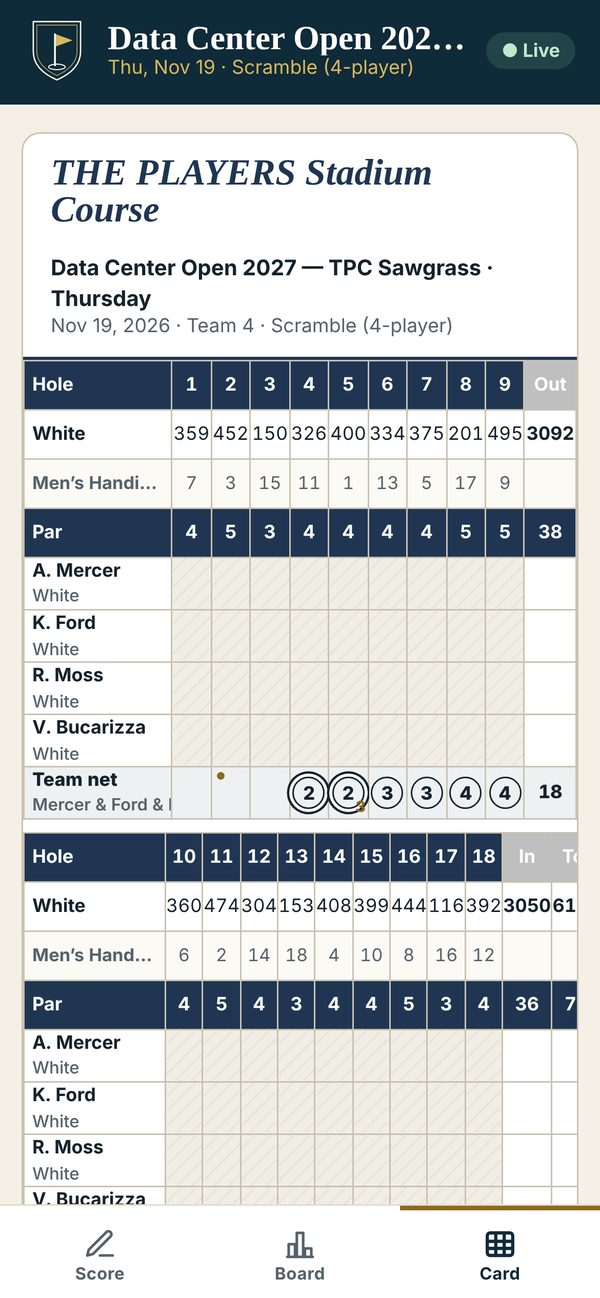
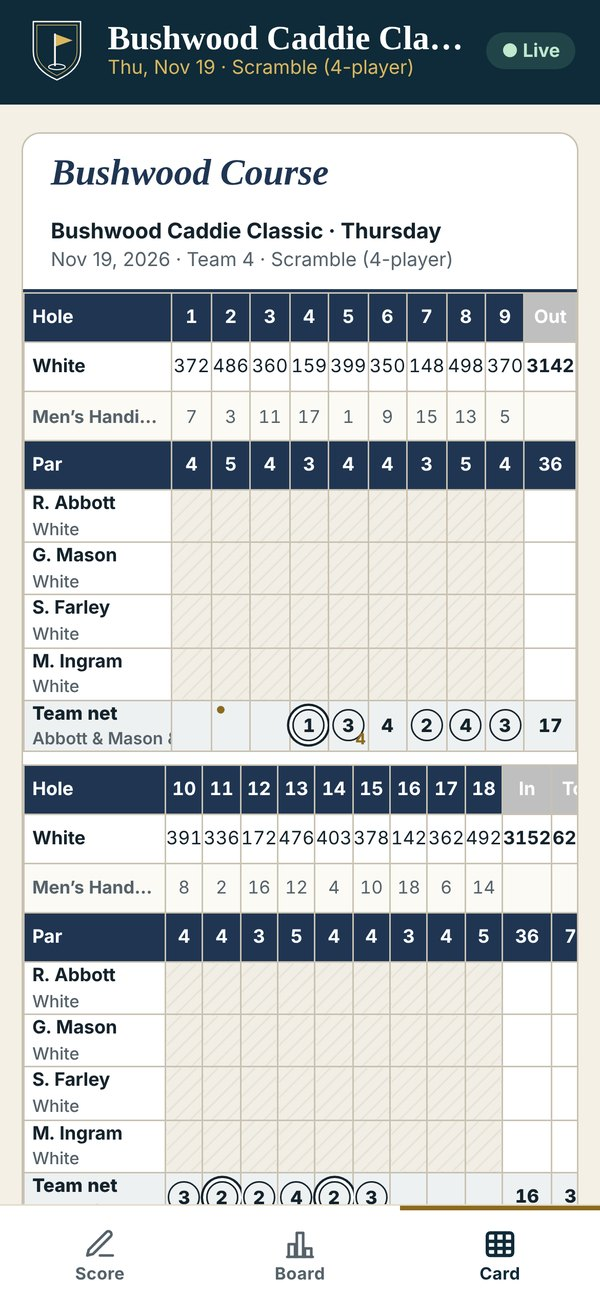
Website: replace the Data Center Open screenshots with a fictional Bushwood Caddie Classic
No real club or client appears on the marketing site any more: the tournament,
registration, scoring, board, GameCast, card, results and nonprofit screens are
re-staged as a charity scramble for a made-up scholarship fund at Bushwood, with
invented sponsors and generic names. tools/site/stage_demo.py reproduces them.

Claude-Session: https://claude.ai/code/session_01DwTJqCtbvtRc53WGXWBa26

diff --git a/tools/site/stage_demo.py b/tools/site/stage_demo.py
@@ -1,0 +1,104 @@
+"""Stage a fictional charity scramble (the Bushwood Caddie Classic) on the fake and capture every screen for the website — no real club or client appears."""
+import asyncio,json,random,datetime,subprocess,os,sys
+sys.path.insert(0,os.path.join(os.path.dirname(os.path.abspath(__file__)),'..','..','tests'))
+from playwright.async_api import async_playwright
+from _harness import FakeDB,cloud,page
+OUT=os.environ.get('OUT','/tmp/site-shots/'); os.makedirs(OUT,exist_ok=True)
+random.seed(11)
+FIRST='James Michael Robert David William Richard Joseph Thomas Daniel Matthew Anthony Mark Steven Paul Andrew Kevin Brian George Timothy Ronald Jason Ryan Jacob Gary Nicholas Eric Jonathan Stephen Larry Justin Scott Brandon Benjamin Samuel Gregory Alexander Patrick Jack Dennis Jerry Tyler Aaron Jose Adam Nathan Henry Zachary Douglas Peter Kyle Noah Ethan Jeremy Christian Walter Keith Austin Roger Terry Sean Gerald Carl Harold Jordan Jesse Bryan Lawrence Arthur Gabriel Bruce Logan Vicki Sue Liz Dana'.split()
+LAST='Abbott Archer Bannister Beck Bishop Blake Booth Bowen Brennan Briggs Caldwell Carver Chambers Chandler Clarke Conway Crane Dalton Dawson Dixon Donnelly Doyle Drake Ellis Emerson Farley Fletcher Foster Gallagher Garrett Gibson Granger Hanley Harmon Hayes Hendricks Holland Hooper Hughes Ingram Jennings Keane Keller Kirby Lambert Lennox Lowell Marsh Mason Maxwell Mercer Monroe Nolan Norris Osborne Parker Pierce Prescott Quigley Randall Reeve Rhodes Sawyer Sheridan Sinclair Sutton Thatcher Tierney Underwood Vaughn Walsh Whitfield Winslow Yates'.split()
+COS=['Czervik Construction','Smails Holdings','Webb Industries','Noonan & Sons','Spaulding Capital','Gopher Pest Control','Lakeside Lumber','Harbor Point Bank','Fairway Insurance','Greenside Landscaping','Bluff Creek Realty','Northgate Title','Caddyshack Outfitters','Pinehurst Dental','Linksview Motors','Riverbend Brewing','Oakmont Orthopedics','Clubhouse Catering','Meadowlark Foods','Summit Roofing','Birdie Bakery','Shoreline Marine','Highland Printing','Eastgate Logistics','Sandtrap Software','Parkside Pediatrics','Ridgeway Electric','Timberline Homes','Quail Run Vineyards','Fox Hollow Farms']
+TIERS=[('Title Sponsor',25000,4),('Presenting Sponsor',15000,4),('Eagle Sponsor',10000,4),('Birdie Sponsor',7500,4),('Par Sponsor',5000,4),('Foursome Sponsor',2500,4),('Beverage Cart Sponsor',2000,0),('Hole-in-One Sponsor',1500,0)]
+PAR=[4,5,4,3,4,4,3,5,4,4,4,3,5,4,4,3,4,5]; HCP=[7,3,11,17,1,9,15,13,5,8,2,16,12,4,10,18,6,14]
+Y=[412,538,398,176,441,387,164,551,409,433,372,191,527,446,418,158,401,544]
+def course():
+    return {'id':'bushwood','tenant':None,'name':'Bushwood Course','club':'Bushwood Country Club','city':'Bushwood','state':'IL','country':'US','holes':18,'status':'live','verified':True,'source':'scorecard','notes':None,'geo':None,
+      'data':{'par':{'M':PAR,'W':PAR},'hcp':{'M':HCP,'W':HCP},'tees':[{'name':'Black','rating':{'M':{'cr':74.3,'slope':139}},'yards':Y},{'name':'Blue','rating':{'M':{'cr':72.0,'slope':133}},'yards':[int(y*0.955) for y in Y]},{'name':'White','rating':{'M':{'cr':69.9,'slope':128},'W':{'cr':75.6,'slope':137}},'yards':[int(y*0.905) for y in Y]}]}}
+def people():
+    out=[]; used=set()
+    for i in range(72):
+        while True:
+            f,l=random.choice(FIRST),random.choice(LAST)
+            if (f,l) not in used: used.add((f,l)); break
+        out.append({'id':'m%02d'%i,'first':f,'last':l,'email':f.lower()+'@'+random.choice(COS).lower().replace(' ','')+'.com','status':'Active','hcp':str(round(random.uniform(2,22),1)),'city':random.choice(['Bushwood','Lakeview','Elmhurst','Glen Ellyn','Naperville','Oak Park','Evanston','Wheaton'])})
+    return out
+async def main():
+    fdb=FakeDB()
+    fdb.seed_tenant('caddies','Bushwood Caddie Scholarship Fund',modules={'golf':True,'pos':True,'events':True},plan='golf',kind='nonprofit')
+    fdb._rows('tenants')[-1]['courses']=['bushwood']; fdb._rows('tenants')[-1]['short']='Caddie Fund'
+    fdb._rows('courses').append(course())
+    ppl=people()
+    fdb.seed('mga_hub','club',{'v':2,'id':'club','kind':'club','name':'Bushwood Caddie Scholarship Fund','short':'Caddie Fund','members':ppl,'orgs':[],'activeSeason':'2026','seasons':{'2026':{}},'tournaments':[],'_rev':2,'_w':'x','_at':1},tenant='caddies')
+    fdb.seed_login('ops@caddies.test','caddies','staff',name='Ops'); fdb.me='u-ops@caddies.test'; fdb.admin=False; fdb.user_tenants=['caddies']
+    today=datetime.date.today().isoformat()
+    async with async_playwright() as p:
+        b=await p.chromium.launch()
+        H=await b.new_context(viewport={'width':1440,'height':900},device_scale_factor=2); await cloud(H,fdb)
+        hub=await H.new_page(); herr=[]; hub.on('pageerror',lambda e:herr.append(str(e)))
+        await hub.goto(page('index.html')+'?org=club&tenant=caddies.flagstickhub.com'); await hub.wait_for_function("()=>cloudReady&&!!db",timeout=20000); await hub.wait_for_timeout(600)
+        info=await hub.evaluate("""async(a)=>{ const [today,TIERS,COS]=a;
+          const t=newTournament({season:today.slice(0,4),name:'Bushwood Caddie Classic',days:1,startDate:today,venue:'Bushwood Country Club',teamSize:4,entryFee:0,plannedPlayers:60});
+          t.course='bushwood'; t.features=Object.assign({},NONPROFIT_FEATURES); t.status='Open for signups'; t.placesPaid=3; t.payoutNote='Trophies and donated gifts for the top three teams; closest-to-the-pin on 16 and long drive on 13.'; t.rules='Four-player scramble, one ball in play per shot\\nEach player must contribute at least three tee shots\\nMove the ball one club length, no closer to the hole; not out of a hazard\\nMaximum team score of net double bogey\\nShotgun start at 10:00am — be at your cart by 9:40';
+          t.schedule=[{day:-1,items:[{id:uid(),time:'6:00pm',event:'Welcome reception',notes:'Sponsor check-in and cocktails at the clubhouse'}]},{day:0,items:[{id:uid(),time:'8:00am',event:'Registration & Breakfast'},{id:uid(),time:'10:00am',event:'Shotgun Start — 4-Man scramble'},{id:uid(),time:'3:30pm',event:'Cocktail Hour'},{id:uid(),time:'4:30pm',event:'Reception Dinner — awards, raffle, scholarship check presentation',notes:'Title and Presenting sponsors present the check to this year’s caddie scholars; dinner seating by tier.'}]}];
+          t.tiers=TIERS.map(([name,amt,spots])=>({id:uid(),name,amt,spots}));
+          const ms=persons();
+          t.sponsors=COS.slice(0,18).map((co,i)=>{ const tier=t.tiers[Math.min(7,Math.floor(i/2.5))]; const paid=i%4!==3; return {id:uid(),company:co,contact:memberName(ms[i]),email:ms[i].email,phone:'',tier:tier.name,pledged:tier.amt,committee:'',notes:'',payments:paid?[{id:uid(),amount:tier.amt,method:i%2?'Check':'Credit card',date:today}]:[]}; });
+          t.field=ms.slice(0,60).map((m,i)=>({id:uid(),memberId:m.id,team:Math.floor(i/4)+1,paid:true,skins:false,answers:{}}));
+          db.tournaments.push(t); if(typeof fundForTournament==='function'){ const e=fundForTournament(t); e.goal=150000; e.date=today; }
+          persist(); ensureTournamentScoring(t); const r=t.rounds[0]; Object.assign(r,engineFrom(catalogById('scramble'),4,1),{scoring:'net',front:'scramble',back:'scramble'}); const ev=roundEvent(r); roundToEvent(r,ev); ev.defaultTee='Blue'; persist(); publishEvent(ev);
+          await new Promise(r=>setTimeout(r,400)); return {tid:t.id,evid:ev.id,slug:ev.slug}; }""",[today,TIERS,COS])
+        tid,evid,slug=info['tid'],info['evid'],info['slug']
+        # groups: the drawer, one team per cart, shotgun
+        await hub.evaluate("(id)=>{ view.geid=id; view.getab='groups'; go('golf'); loadScores(GEV()); }",evid); await hub.wait_for_timeout(500)
+        await hub.evaluate("(id)=>{ const ev=golfData().events.find(e=>e.id===id); buildGroupsFromField(ev); }",evid); await hub.wait_for_selector('#bgN')
+        await hub.evaluate("()=>{ $('bgN').value='4'; $('bgS').value='shotgun'; $('dSave').click(); }"); await hub.wait_for_timeout(800)
+        await hub.evaluate("(id)=>{ const ev=golfData().events.find(e=>e.id===id); ev.groups.forEach(g=>{ const t=(g.players[0]||{}).team||''; g.label='Team '+String(t).replace('T',''); }); golfSave(ev); }",evid); await hub.wait_for_timeout(600)
+        # open registration + field photo
+        await hub.evaluate("(tid)=>{ go('tournament',{tid,ttab:'field'}); }",tid); await hub.wait_for_timeout(500)
+        await hub.evaluate("()=>{ const b=$('sgOpen'); if(b) b.click(); }"); await hub.wait_for_timeout(900)
+        reg=await hub.evaluate("(tid)=>{ const t=db.tournaments.find(x=>x.id===tid); return t.reg&&t.reg.token; }",tid)
+        # scores: the captains of each group, holes in play order, scramble numbers
+        caps=await hub.evaluate("(id)=>{ const ev=golfData().events.find(e=>e.id===id); const pub=publicEvent(ev); return ev.groups.map(g=>{ const pg=pub.groups.find(x=>x.id===g.id); return {gid:g.id,code:g.code,start:+g.startHole||1,cap:groupTeams(pg)[0].captain.id,label:g.label}; }); }",evid)
+        now=datetime.datetime.utcnow(); rows=fdb._rows('golf_scores')
+        for i,g in enumerate(caps):
+            n=[9,11,10,12,8,13,10,11,9,12,10,7,11,10,9][i%15]
+            order=[((g['start']-1+k)%18)+1 for k in range(18)]
+            for k,h in enumerate(order[:n]):
+                par=PAR[h-1]; r=random.random(); s=par-1 if r<0.55 else par if r<0.9 else par-2 if r<0.96 else par+1
+                rows.append({'event_id':evid,'player_id':g['cap'],'hole':h,'strokes':s,'updated_at':(now-datetime.timedelta(minutes=(n-k)*9)).isoformat()+'Z'})
+        # ---- hub captures
+        async def shot(name,full=False): await hub.wait_for_timeout(500); await hub.screenshot(path=OUT+name,full_page=full)
+        await hub.evaluate("(tid)=>{ go('tournament',{tid,ttab:'overview'}); }",tid); await shot('01-overview.png')
+        await hub.evaluate("()=>{ view.ttab='sponsors'; render(); }"); await shot('02-sponsors.png')
+        await hub.evaluate("()=>{ view.ttab='field'; render(); }"); await shot('03-field.png')
+        await hub.evaluate("()=>{ view.ttab='checkin'; render(); }"); await shot('04-checkin.png')
+        await hub.evaluate("(id)=>{ view.geid=id; view.getab='groups'; go('golf'); loadScores(GEV()); }",evid); await hub.wait_for_timeout(800); await shot('05-groups.png')
+        await hub.evaluate("()=>{ view.getab='board'; render(); }"); await hub.wait_for_timeout(800); await shot('06-hub-board.png')
+        await hub.evaluate("(id)=>{ const ev=golfData().events.find(e=>e.id===id); const lb=document.querySelector('[data-lbg]'); if(lb) lb.click(); }",evid); await hub.wait_for_timeout(600); await shot('07-scorecard.png')
+        await hub.evaluate("()=>{ closeDrawer(); }"); await hub.wait_for_timeout(300)
+        await hub.evaluate("(tid)=>{ go('tournament',{tid,ttab:'rounds'}); }",tid); await hub.wait_for_timeout(900); await shot('08-rounds.png')
+        # printed scorecards: the drawer's html, rendered in a page of its own
+        html=await hub.evaluate("(id)=>{ const ev=golfData().events.find(e=>e.id===id), pub=publicEvent(ev); const gs=ev.groups.slice().sort((a,b)=>(+a.startHole-+b.startHole)); const cards=gs.slice(0,2).flatMap(g=>{ const pg=pub.groups.find(x=>x.id===g.id); return groupTeams(pg).map(t=>printCardHTML(ev,pub,g,t.key)); }); return `<!doctype html><html><head><meta charset='utf-8'><base href='${SITE_BASE}'><style>${PRINT_CSS} .bar{display:none}</style></head><body><div class='sheet two'>${cards.join('')}</div></body></html>`; }",evid)
+        open(OUT+'cards.html','w').write(html); pr=await H.new_page(); await pr.goto('file://'+OUT+'cards.html'); await pr.wait_for_timeout(1200); await pr.screenshot(path=OUT+'09-cards.png',full_page=True)
+        # results PDF
+        async with hub.expect_download() as dl: await hub.evaluate("(tid)=>{ const t=db.tournaments.find(x=>x.id===tid); resultsPDF(t); }",tid)
+        d=await dl.value; pdf=OUT+'results.pdf'; await d.save_as(pdf); subprocess.run(['pdftoppm','-png','-r','120','-f','1','-l','1',pdf,OUT+'10-results'],check=True)
+        await hub.evaluate("()=>{ go('dash'); }"); await shot('11-dash.png')
+        await hub.evaluate("()=>{ go('fund'); }"); await hub.wait_for_timeout(600); await shot('12-fund.png')
+        # ---- public pages
+        P=await b.new_context(viewport={'width':1440,'height':900},device_scale_factor=2); await cloud(P,fdb,no_session=True)
+        rp=await P.new_page(); await rp.goto(page('register.html')+'?k='+reg); await rp.wait_for_timeout(1500); await rp.screenshot(path=OUT+'13-register.png'); await rp.screenshot(path=OUT+'13-register-full.png',full_page=True)
+        tv=await P.new_page(); await tv.goto(page('score.html')+'?e='+slug+'&view=board'); await tv.wait_for_function("()=>!!pub&&document.querySelectorAll('.lb').length>1",timeout=15000); await tv.wait_for_timeout(600); await tv.screenshot(path=OUT+'14-tv-board.png')
+        gc=await P.new_page(); await gc.goto(page('gamecast.html')+'?e='+slug); await gc.wait_for_timeout(5000); await gc.screenshot(path=OUT+'15-gamecast.png')
+        try:
+            await gc.evaluate("()=>{ const r=document.querySelector('[data-card]'); if(r) r.click(); }"); await gc.wait_for_timeout(600); await gc.screenshot(path=OUT+'16-gamecast-card.png')
+        except Exception as e: print('gc card',e)
+        # ---- phones
+        M=await b.new_context(viewport={'width':390,'height':844},device_scale_factor=3,is_mobile=True,has_touch=True); await cloud(M,fdb,no_session=True)
+        ph=await M.new_page(); await ph.goto(page('score.html')+'?e='+slug); await ph.wait_for_function("()=>!!pub&&!!document.getElementById('code')",timeout=15000); await ph.wait_for_timeout(400); await ph.screenshot(path=OUT+'20-phone-join.png')
+        g=caps[3]; await ph.fill('#code',g['code']); await ph.click('#joinBtn'); await ph.wait_for_function("()=>groupId&&tab==='score'",timeout=15000); await ph.wait_for_timeout(800); await ph.evaluate("()=>{ const b=[...document.querySelectorAll('button')].find(x=>x.textContent.trim()==='16'); if(b) b.click(); }"); await ph.wait_for_timeout(500); await ph.screenshot(path=OUT+'21-phone-score.png')
+        await ph.evaluate("()=>{ tab='card'; render(); }"); await ph.wait_for_timeout(500); await ph.screenshot(path=OUT+'22-phone-card.png',full_page=True)
+        await ph.evaluate("()=>{ tab='board'; loadScores().then(render); }"); await ph.wait_for_timeout(1200); await ph.screenshot(path=OUT+'23-phone-board.png')
+        print('errors',herr[:3]); print(json.dumps({'slug':slug,'reg':reg,'groups':len(caps)}))
+        await b.close()
+asyncio.run(main())

diff --git a/CLAUDE.md b/CLAUDE.md
@@ -589,8 +589,10 @@ Plain static pages, one stylesheet (`site/site.css`), real product screenshots i
 `golf.html` (tournaments, registration, pairings and cards, live scoring, GameCast, formats, the course library, associations, member
 games, cart games, budget and treasury), `club.html` (member accounts, the account, the member portal, point of sale, on the floor,
 tickets, bookings, staff, reports, the directory), `nonprofits.html`, `about.html`; `features.html` only redirects to `golf.html`. The
-header and footer markup is pasted into every page — keep the five in step. Screenshots came from the DCO scramble staged on the fake
-(`tests/` harness) and the Bushwood seed run in local mode; re-capture with the same tools when a screen changes. Hosted separately from
+header and footer markup is pasted into every page — keep the five in step. **No real club or client appears on the website** (the owner, Nov 19: "no actual club information or client information"): the tournament
+screenshots come from a fictional charity scramble, the **Bushwood Caddie Classic** (a nonprofit tenant "Bushwood Caddie Scholarship Fund", made-up
+sponsors and people, Bushwood's own course) staged on the fake by `tools/site/stage_demo.py` (`OUT=<dir>`; downscale the PNGs to the sizes in
+`site/img/`), and the club screens from the Bushwood seed run in local mode; re-capture with the same tools when a screen changes. Hosted separately from
 the app (`docs/tenancy.md`): `flagstickhub.com` and `www` point at wherever this folder is served.
 
 ### Supabase objects
